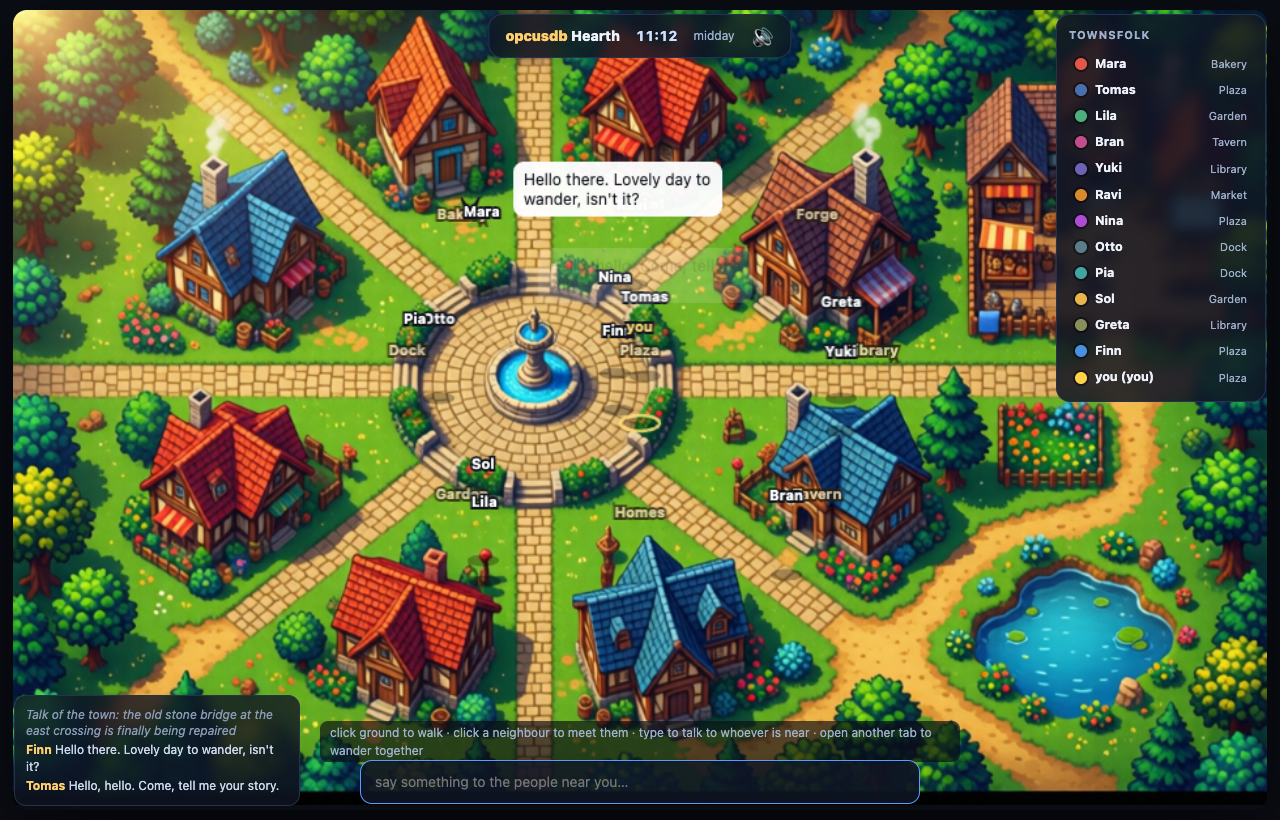
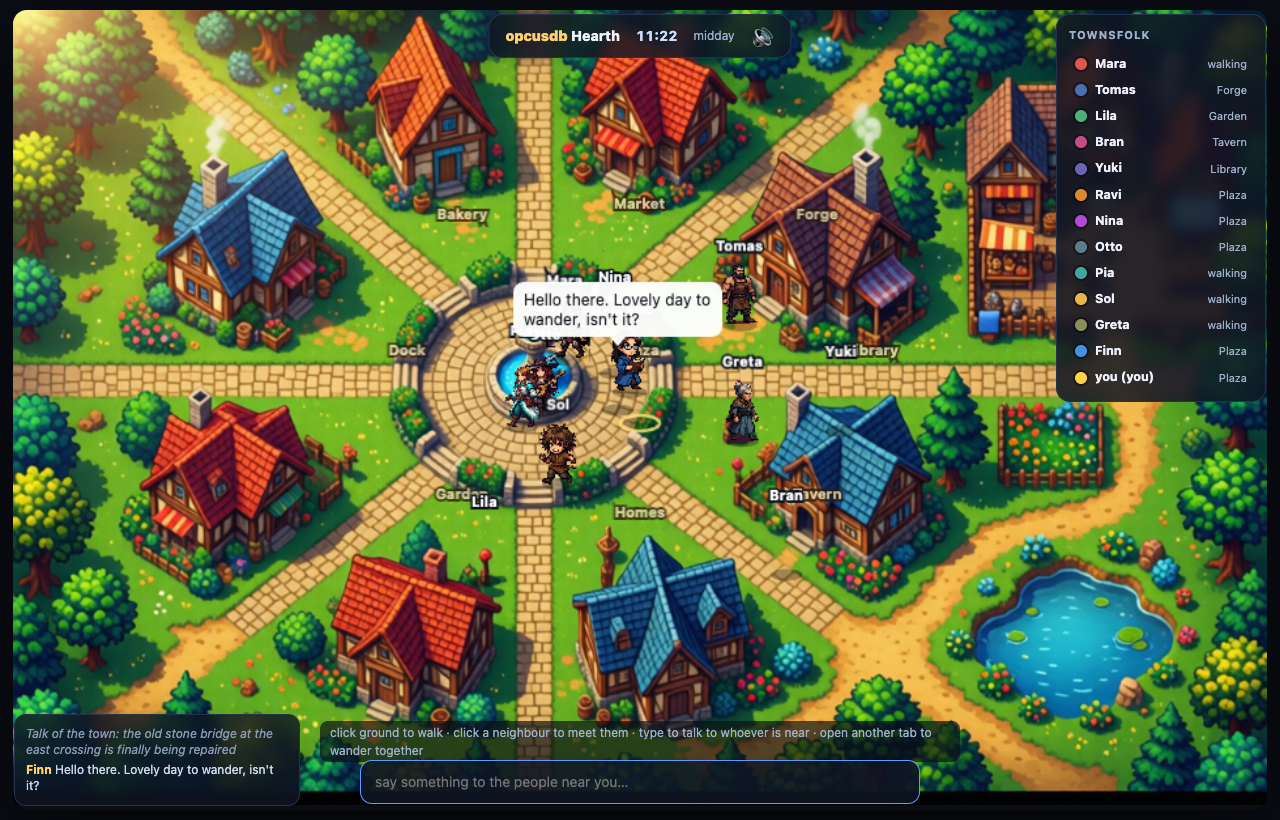
Hearth: close the socket cleanly on tab unload (no 35s ghost on refresh)
The heartbeat reaps a vanished peer within 35s, but the common case (refreshing or closing
a tab) should disconnect at once. The client now closes the WebSocket on pagehide, so the
server removes that visitor immediately instead of leaving a duplicate of you standing in
the town for up to 35s. The same flag stops the auto-reconnect when the page is genuinely
going away. Verified a clean close removes the visitor within about a second, not 35s.

diff --git a/demos/server/web/town.js b/demos/server/web/town.js
@@ -133,6 +133,12 @@ function makeSpriteChar(row, isHuman, ringCol) {
 }
 
 // ---- networking -----------------------------------------------------------
+// close the socket cleanly when the tab is refreshed or closed, so the server removes
+// this visitor at once instead of leaving a ghost until the heartbeat reaps it (~35s).
+// leaving also stops the auto-reconnect, since the page is going away.
+let leaving = false;
+addEventListener("pagehide", () => { leaving = true; try { ws && ws.close(); } catch (e) {} });
+
 function connect() {
   ws = new WebSocket(`ws://${location.host}/ws`);
   ws.onmessage = (e) => {
@@ -174,7 +180,7 @@ function connect() {
   };
   // on a reconnect, treat the next snapshot as a fresh load so reconciling the old
   // characters does not fire spurious arrived/left notes
-  ws.onclose = () => { firstSnapDone = false; setTimeout(connect, 1000); };
+  ws.onclose = () => { if (leaving) return; firstSnapDone = false; setTimeout(connect, 1000); };
 }
 
 function setBubble(id, text) {